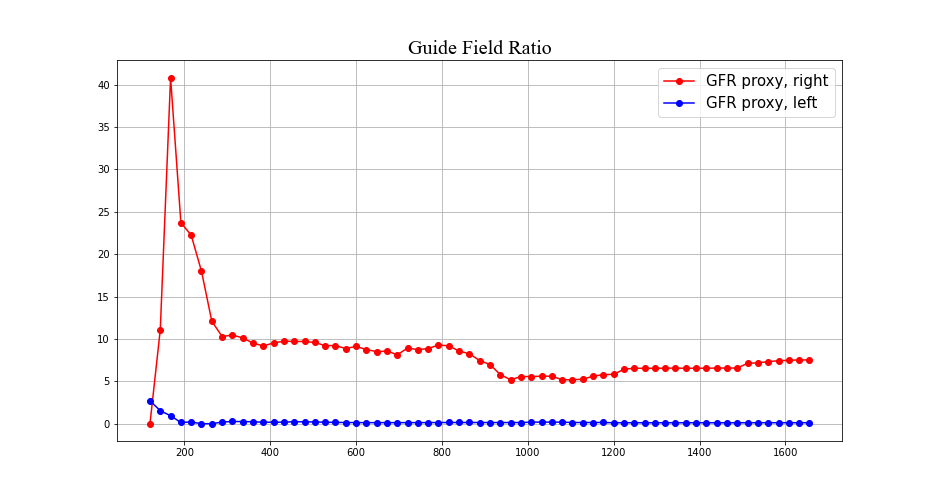
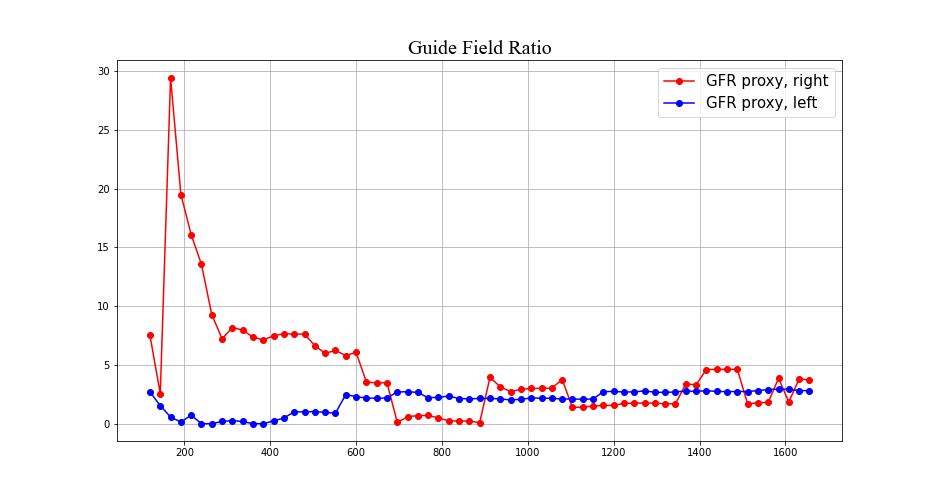
mid1 four-panel edit 6/20

diff --git a/mid1_process.py b/mid1_process.py
@@ -55,9 +55,9 @@ pil_mask_c, ivs, dvs, hmik = fl_funcs.pil_gen(pil_mask_c, hmi_dat)
 
 print("Separation values determination.")
 
-aia8_pos, aia8_neg = fl_funcs.mask_sep(aia_step8, hmi_dat)
+aia8_pos_step, aia8_neg_step = fl_funcs.mask_sep(aia_step8, hmi_dat)
 
-pos_rem0, neg_rem0 = fl_funcs.spur_removal_sep2(aia8_pos, aia8_neg)
+pos_rem0, neg_rem0 = fl_funcs.spur_removal_sep2(aia8_pos_step, aia8_neg_step)
 
 distpos_med, distpos_mean, distneg_med, distpos_mean \
     = fl_funcs.separation(aia_step8, ivs, dvs, pos_rem0, neg_rem0)
@@ -142,7 +142,7 @@ startin, peakin, endin, times, s304, e304, filter_304, med304, std304, \
                                         flnum, start304, peak304, end304,
                                         times304, curves304, outflag=1242)
 
-posrib, negrib, pos1600, neg1600 = fl_funcs.img_mask(aia8_pos, aia8_neg,
+posrib, negrib, pos1600, neg1600 = fl_funcs.img_mask(aia8_pos_step, aia8_neg_step,
                                                      aiadat, nt)
 
 print("Determining the regions of separation and elongation.")
@@ -261,10 +261,10 @@ posxhi = xlim1_pos
 
 # Isolate ribbons appropriately for shear analysis
 aia_neg_rem_shear, aia_pos_rem_shear = fl_funcs.\
-    shear_ribbon_isolation(aia8_neg, aia8_pos, med_x, med_y, negylow=negylow,
+    shear_ribbon_isolation(aia8_neg_step, aia8_pos_step, med_x, med_y, negylow=negylow,
                            negyhi=negyhi, posylow=posylow, posyhi=posyhi,
                            negxlow=negxlow, negxhi=negxhi, posxlow=posxlow,
-                           posxhi=posxhi)
+                           posxhi=posxhi,flag = 1)
 
 # Left and right coordinates of positive and negative ribbons
 lr_coord_neg_shear, lr_coord_pos_shear = \
@@ -282,7 +282,7 @@ guide_right, guide_left = fl_funcs.guidefieldlen(pil_right_near_pos_shear,
                                                  pil_left_near_pos_shear,
                                                  pil_right_near_neg_shear,
                                                  pil_left_near_neg_shear,
-                                                 sortedpil)
+                                                 sortedpil, fl_funcs.curve_length)
 
 # Guide field ratio to the right and left edges of ribbons
 left_gfr, right_gfr = fl_funcs.gfrcalc(guide_left, guide_right,
@@ -310,13 +310,27 @@ indstrt_sep = 1
 indstrt_elon = 1
 gfr_trans = 7
 
+E_pos, E_neg, E_rat, time_E = fl_funcs.E_field_det(conv_f, distpos_med,
+                                                   distneg_med, timelab, 
+                                                   hmi_dat, pos_rem, neg_rem, 
+                                                   flnum, dt1600, times,
+                                                   startind=gfr_trans)
+
+E_pos = np.append(E_pos,E_pos[-1])
+E_neg = np.append(E_neg,E_neg[-1])
+
+shear_ang_left, shear_ang_right = fl_funcs.shear_to_angle(times,flnum,dt1600, left_gfr, right_gfr)
+
+quartermaxtim = fl_funcs.quartermaxtime(gfr_trans, right_gfr, left_gfr, timelab, fl_funcs.find_nearest_ind, flag = 0)
+
+print(quartermaxtim)
 
 
 E_pos, E_neg, E_rat, time_E = fl_funcs.E_field_det(conv_f, distpos_med,
                                                    distneg_med, timelab, 
                                                    hmi_dat, pos_rem, neg_rem, 
                                                    flnum, dt1600, times,
-                                                   startind=7)
+                                                   startind=gfr_trans)
 
 fl_funcs.plt_fourpanel(times, right_gfr, left_gfr, flnum, dt1600, time304,
                   filter_304, lens_pos_Mm, lens_neg_Mm, distpos_Mm, distneg_Mm,
@@ -328,3 +342,7 @@ fl_funcs.plt_fourpanel(times, right_gfr, left_gfr, flnum, dt1600, time304,
                   s304, e304, pos1600, neg1600, dn1600, indstrt_elon, 
                   indstrt_sep, fermitimes, raw_hxr_sum, cspec_hxr_sum,
                   gfr_trans, E_pos, E_neg, time_E, low_hxr=16500, high_hxr=18000,  period_flag = 0)
+
+file='mid1shear'
+
+np.savez(file,shear_ang_left,shear_ang_right,right_gfr,left_gfr)

diff --git a/fl_funcs.py b/fl_funcs.py
@@ -4246,8 +4246,8 @@ def plt_fourpanel(times, right_gfr, left_gfr, flnum, dt1600, time304,
                                        style='normal', size=20) 
     ax2.legend(prop=font, fontsize=20)    
     ax2_0 = ax2.twinx()
-    lns2 = ax2_0.plot(dt1600[gfr_trans:], E_pos, '--rx', label = '$E_{pos}$')
-    lns3 = ax2_0.plot(dt1600[gfr_trans:], E_neg, '--bx', label = '$E_{neg}$')
+    lns2 = ax2_0.plot(dt1600[gfr_trans:-1], E_pos, '--rx', label = '$E_{pos}$')
+    lns3 = ax2_0.plot(dt1600[gfr_trans:-1], E_neg, '--bx', label = '$E_{neg}$')
 
     ax2_0.set_xlim([dt1600[0], dt1600[-1]])
 
